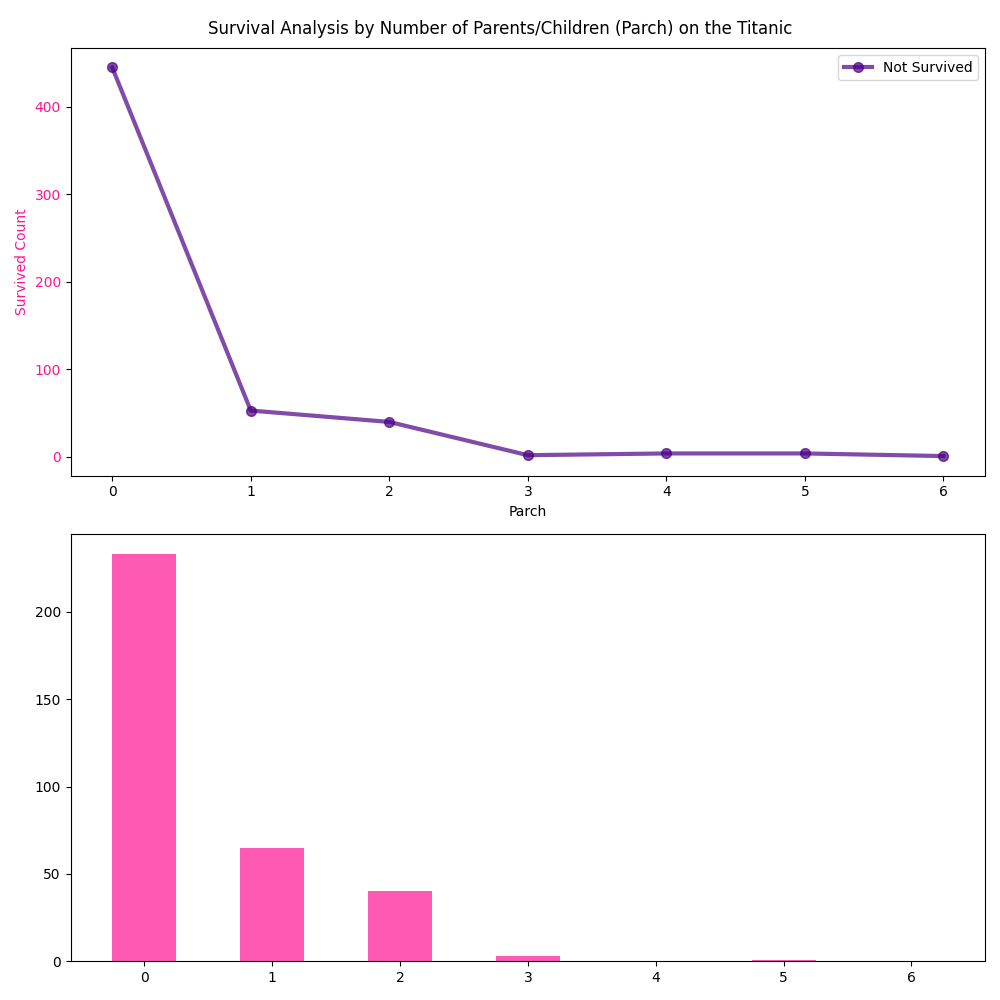
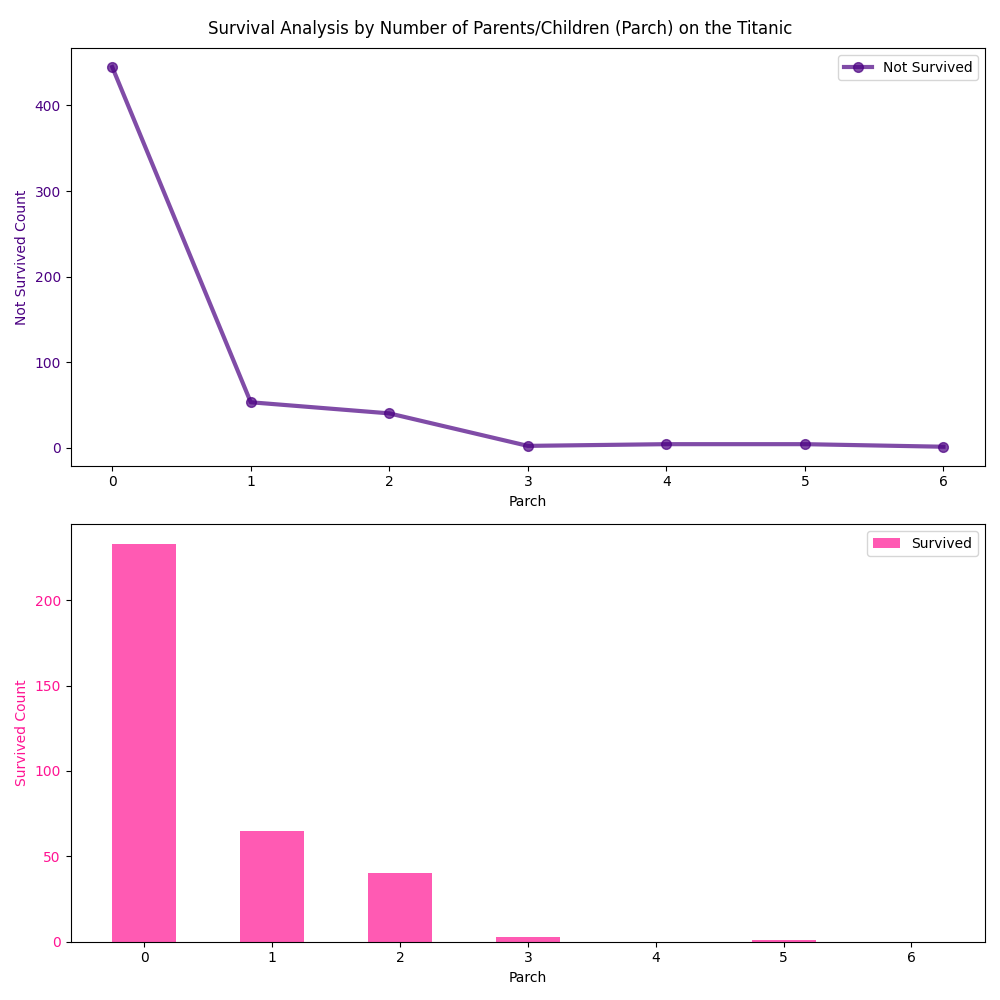
Updated Changes

diff --git a/week03/matplotlib_ex.py b/week03/matplotlib_ex.py
@@ -351,10 +351,10 @@ axes[0].legend(loc='upper right')
 
 # 두 번째 서브플롯 설정(막대 그래프)
 axes[1].bar(x, y2,color='deeppink',alpha = 0.7, width = 0.5,label = 'Survived')
-axes[0].set_xlabel('Parch')
-axes[0].set_ylabel('Survived Count',color = 'deeppink')
-axes[0].tick_params(axis = 'y', labelcolor='deeppink')
-axes[0].legend(loc='upper right')
+axes[1].set_xlabel('Parch')
+axes[1].set_ylabel('Survived Count',color = 'deeppink')
+axes[1].tick_params(axis = 'y', labelcolor='deeppink')
+axes[1].legend(loc='upper right')
 
 # 제목 설정
 fig.suptitle('Survival Analysis by Number of Parents/Children (Parch) on the Titanic')
